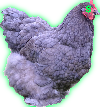
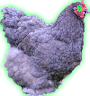
finished great chicken

diff --git a/Content/Projectiles/FeatherAimIndecatorFriendly.cs b/Content/Projectiles/FeatherAimIndecatorFriendly.cs
@@ -1,0 +1,104 @@
+using Microsoft.Xna.Framework;
+using Microsoft.Xna.Framework.Graphics;
+using System;
+using Terraria;
+using Terraria.Audio;
+using Terraria.GameContent;
+using Terraria.ID;
+using Terraria.ModLoader;
+
+namespace Chickensubclass.Content.Projectiles
+{
+    public class FeatherAimIndecatorFriendly : ModProjectile
+    {
+        private int TimeLeft = 60;
+        public float featherSpeed = 10f;
+
+        public override void SetStaticDefaults() {
+            
+            ProjectileID.Sets.HeldProjDoesNotUsePlayerGfxOffY[Type] = false;
+            Main.projFrames[Projectile.type] = 2;
+        }
+
+        public override void SetDefaults() {
+            Projectile.width = 62; // The width of projectile hitbox
+            Projectile.height = 62; // The height of projectile hitbox
+            Projectile.aiStyle = -1; // The ai style of the projectile, please reference the source code of Terraria
+            Projectile.friendly = false; // Can the projectile deal damage to enemies?
+            Projectile.hostile = false; // Can the projectile deal damage to the player?
+            Projectile.DamageType = DamageClass.Melee; // Is the projectile shoot by a ranged weapon?
+            Projectile.penetrate = 1; // How many monsters the projectile can penetrate. (OnTileCollide below also decrements penetrate for bounces as well)
+            Projectile.timeLeft = 300; // The live time for the projectile (60 = 1 second, so 600 is 10 seconds)
+            Projectile.alpha = 0; // The transparency of the projectile, 255 for completely transparent. (aiStyle 1 quickly fades the projectile in) Make sure to delete this if you aren't using an aiStyle that fades in. You'll wonder why your projectile is invisible.
+            Projectile.light = 0f; // How much light emit around the projectile
+            Projectile.ignoreWater = true; // Does the projectile's speed be influenced by water?
+            Projectile.tileCollide = true; // Can the projectile collide with tiles?
+            Projectile.extraUpdates = 0; // Set to above 0 if you want the projectile to update multiple time in a frame
+
+            
+        }
+
+        public override bool OnTileCollide(Vector2 oldVelocity) {
+            
+            Collision.HitTiles(Projectile.position, Projectile.velocity, Projectile.width, Projectile.height);
+            SoundEngine.PlaySound(SoundID.Item10, Projectile.position);
+            // If the projectile hits the left or right side of the tile, reverse the X velocity
+            if (Math.Abs(Projectile.velocity.X - oldVelocity.X) > float.Epsilon) {
+                Projectile.velocity.X = -oldVelocity.X;
+            }
+            // If the projectile hits the top or bottom side of the tile, reverse the Y velocity
+            if (Math.Abs(Projectile.velocity.Y - oldVelocity.Y) > float.Epsilon) {
+                Projectile.velocity.Y = -oldVelocity.Y;
+            }
+            
+            return false;
+        }
+
+        public override void AI() 
+        { 
+            TimeLeft--;
+            Projectile.velocity = Projectile.velocity / 1.1f;
+
+            Player target = Main.player[Player.FindClosest(Projectile.Center, Projectile.width, Projectile.height)];
+            if (target != null && target.active && !target.dead) {
+                Vector2 targetDirection = Main.MouseWorld - Projectile.Center;
+                Projectile.rotation = targetDirection.ToRotation() - MathHelper.PiOver2;
+            }
+
+            if (++Projectile.frameCounter >= 6) {
+                Projectile.frameCounter = 0;
+                if (++Projectile.frame >= Main.projFrames[Projectile.type]) {
+                    Projectile.frame = 0;
+                }
+            }
+
+            if (TimeLeft <= 0) {
+                if (Main.myPlayer == Projectile.owner) {
+                    
+                    float angle = Projectile.rotation + MathHelper.PiOver2;
+                    Vector2 featherVelocity = angle.ToRotationVector2() * featherSpeed;
+                    Projectile.NewProjectile(
+                        Projectile.GetSource_FromThis(), 
+                        Projectile.Center, 
+                        featherVelocity, 
+                        ModContent.ProjectileType<GreatChickenFeatherFriendlyProjectile>(),
+                        Projectile.damage * 2, 
+                        Projectile.knockBack, 
+                        Projectile.owner
+                    );
+                    
+                }
+                Projectile.Kill();
+            }
+        }
+
+        public override bool PreDraw(ref Color lightColor) {
+            return true;
+        }
+
+        public override void OnKill(int timeLeft) {
+            // This code and the similar code above in OnTileCollide spawn dust from the tiles collided with. SoundID.Item10 is the bounce sound you hear.
+            Collision.HitTiles(Projectile.position + Projectile.velocity, Projectile.velocity, Projectile.width, Projectile.height);
+        }
+    }
+}

diff --git a/Content/Items/FlyingChicken.cs b/Content/Items/FlyingChicken.cs
@@ -37,26 +37,26 @@ namespace Chickensubclass.Content.Items
 
 		}
 		
-		public override bool Shoot(Player player, EntitySource_ItemUse_WithAmmo source, Vector2 position, Vector2 velocity, int type, int damage, float knockback)
-{
-    // Define the number of projectiles to shoot, e.g., 5 shots
-    float numberProjectiles = 1;
-
-    // Define the spread angle in degrees
-    float spread = 5;
-
-    for (int i = 0; i < numberProjectiles; i++)
-    {
-        // Randomize the velocity of each projectile
-        Vector2 perturbedSpeed = velocity.RotatedByRandom(MathHelper.ToRadians(spread));
-
-        // Spawn the projectile
-        Projectile.NewProjectile(source, position, perturbedSpeed, type, damage, knockback, player.whoAmI);
-    }
-
-    // Return false to stop the default projectile from being spawned
-    return false;
-}
+	public override bool Shoot(Player player, EntitySource_ItemUse_WithAmmo source, Vector2 position, Vector2 velocity, int type, int damage, float knockback)
+	{
+	    // Define the number of projectiles to shoot, e.g., 5 shots
+	    float numberProjectiles = 1;
+	
+	    // Define the spread angle in degrees
+	    float spread = 5;
+	
+	    for (int i = 0; i < numberProjectiles; i++)
+	    {
+	        // Randomize the velocity of each projectile
+	        Vector2 perturbedSpeed = velocity.RotatedByRandom(MathHelper.ToRadians(spread));
+	
+	        // Spawn the projectile
+	        Projectile.NewProjectile(source, position, perturbedSpeed, type, damage, knockback, player.whoAmI);
+	    }
+	
+	    // Return false to stop the default projectile from being spawned
+	    return false;
+	}
 
 		public override void AddRecipes()
 		{

diff --git a/Content/Items/GreatChickenWeapon.cs b/Content/Items/GreatChickenWeapon.cs
@@ -36,8 +36,29 @@ namespace Chickensubclass.Content.Items
 			Item.UseSound = SoundID.Item1;
 			Item.autoReuse = true;
 			Item.useTurn = true;
-			Item.shoot = ModContent.ProjectileType<ReaperChickenFeatherProjectile>();
-			Item.shootSpeed = 0f;
+			Item.shoot = ModContent.ProjectileType<FeatherAimIndecatorFriendly>();
+			Item.shootSpeed = 10f;
+		}
+
+		public override bool Shoot(Player player, EntitySource_ItemUse_WithAmmo source, Vector2 position, Vector2 velocity, int type, int damage, float knockback)
+		{
+		    // Define the number of projectiles to shoot, e.g., 5 shots
+		    float numberProjectiles = 1;
+
+		    // Define the spread angle in degrees
+		    float spread = 360;
+
+		    for (int i = 0; i < numberProjectiles; i++)
+		    {
+		        // Randomize the velocity of each projectile
+		        Vector2 perturbedSpeed = velocity.RotatedByRandom(MathHelper.ToRadians(spread));
+
+		        // Spawn the projectile
+		        Projectile.NewProjectile(source, position, perturbedSpeed, type, damage, knockback, player.whoAmI);
+		    }
+
+		    // Return false to stop the default projectile from being spawned
+		    return false;
 		}
 	}
 }

diff --git a/Content/ChickenWeaponDamageBoost.cs b/Content/ChickenWeaponDamageBoost.cs
@@ -47,6 +47,7 @@ namespace Chickensubclass.Content
                heldItemType == ModContent.ItemType<BinChicken>() ||
                heldItemType == ModContent.ItemType<TripleCluck>() ||
                heldItemType == ModContent.ItemType<BigShotChicken>() ||
+               heldItemType == ModContent.ItemType<GreatChickenWeapon>() ||
                heldItemType == ModContent.ItemType<ZenithChicken>() ||
                heldItemType == ModContent.ItemType<Chicken>();
     }
